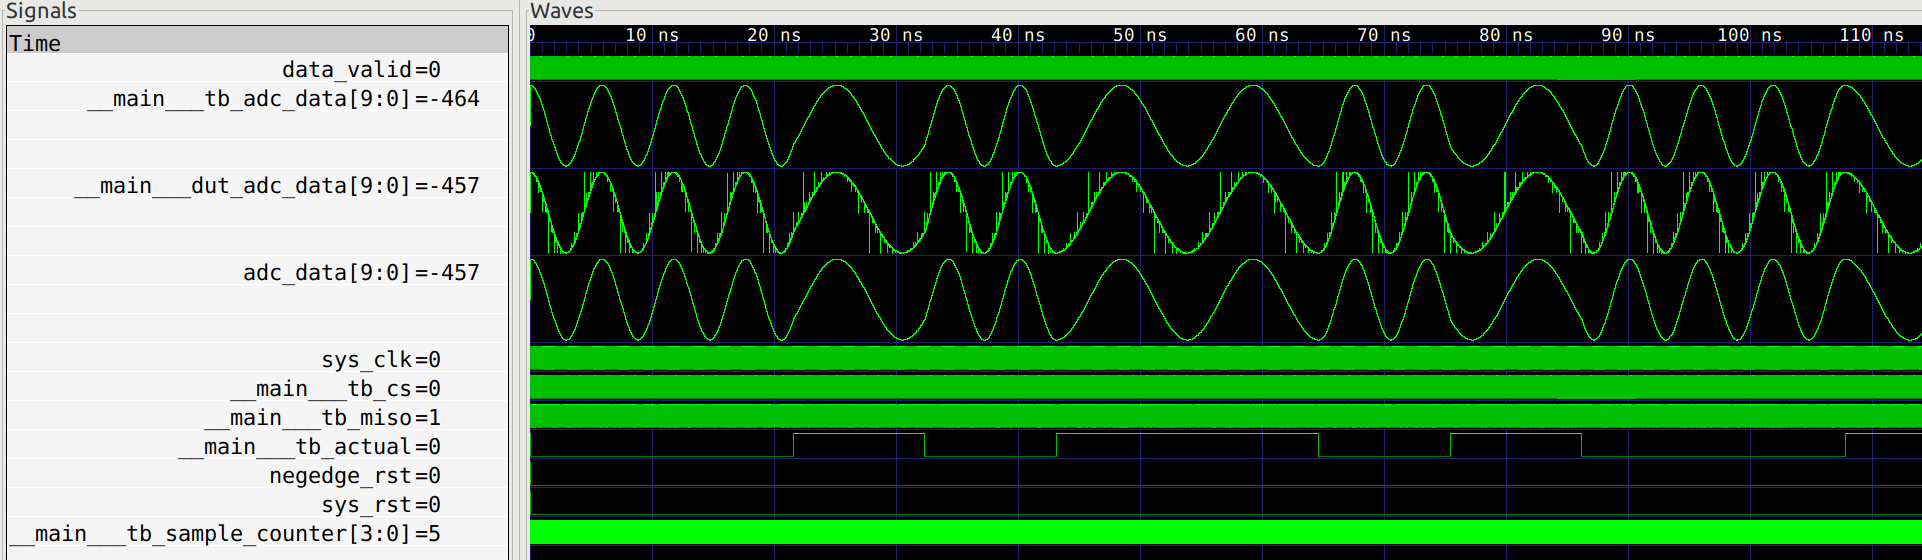
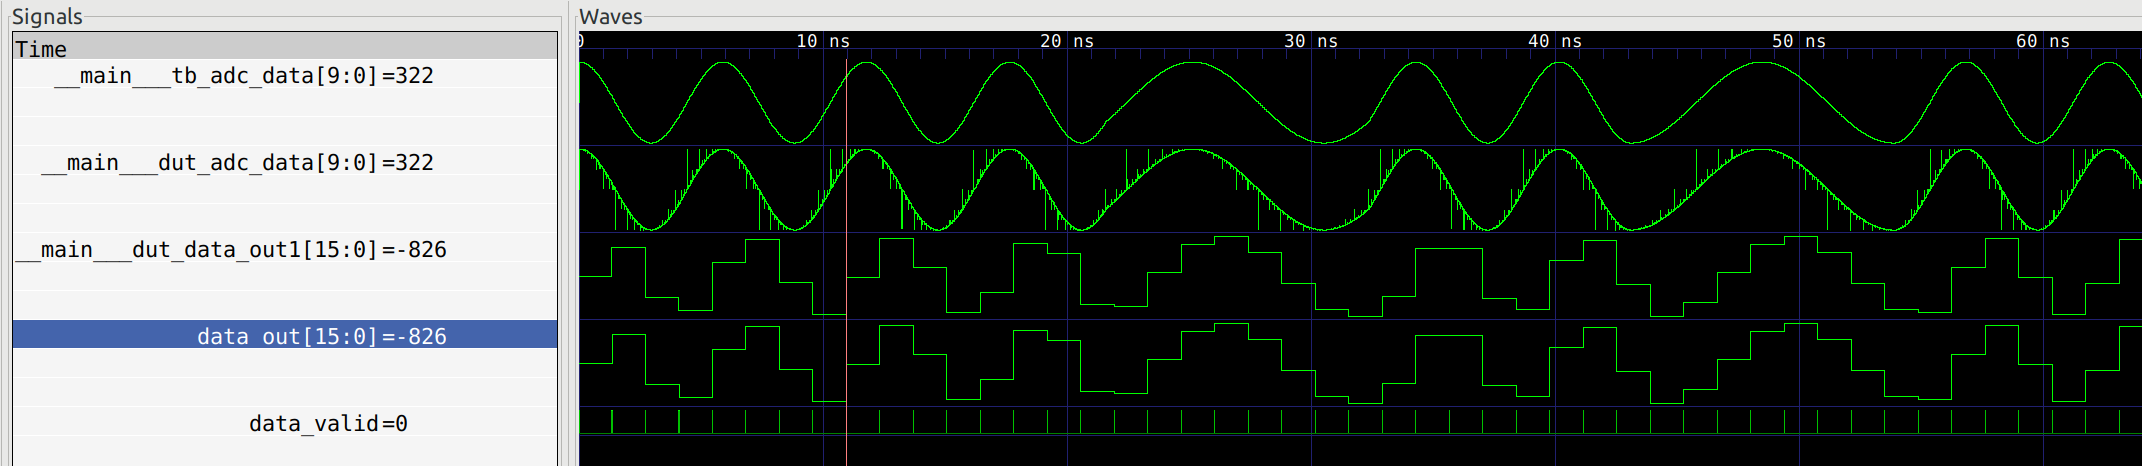
implemented downsampling, cleaned up hierarchy

diff --git a/litax25.py b/litax25.py
@@ -27,29 +27,23 @@ self.sync += If(foo, i.eq(j)).Else(i.eq(x))
 """
 
 class signal_gen():
-    def __init__(self, length, cycles_per_sample):
+    def __init__(self, length, params):
         self.bits = Array(Constant(random.randrange(2), (1, False)) for _ in range(length))
-        self.clk_freq = 6e6
-        self.sample_freq = self.clk_freq/cycles_per_sample
-        self.baud = 1200.
-        self.f1 = 1200.
-        self.f0 = 2200.
-        self.cycles_per_sample = cycles_per_sample
+        self.params = params
 
     def generator(self):
         phase = 0.
         curr_bit = self.bits[0].value
-        f = self.f1 if curr_bit == 1 else self.f0
+        f = self.params.f1 if curr_bit == 1 else self.params.f0
         j = 0
-        samples_per_baud = int(self.sample_freq/self.baud)
-        for i in range(samples_per_baud*len(self.bits)):
-            coeff = self.cycles_per_sample*i*2.*np.pi/self.clk_freq
-            if int(i * self.baud / self.sample_freq) > j:
-                j = int(i * self.baud / self.sample_freq)
-                bit_idx = int(i / samples_per_baud)
+        for i in range(self.params.presamples_per_symbol*len(self.bits)):
+            coeff = self.params.cycles_per_sample*i*2.*np.pi/self.params.clk_freq
+            if int(i * self.params.baud / self.params.sample_freq) > j:
+                j = int(i * self.params.baud / self.params.sample_freq)
+                bit_idx = int(i / self.params.presamples_per_symbol)
                 new_bit = self.bits[bit_idx].value
                 if new_bit != curr_bit: #determine new frequency and match the phase
-                    new_f = self.f1 if new_bit == 1 else self.f0
+                    new_f = self.params.f1 if new_bit == 1 else self.params.f0
                     phase = (coeff*(f - new_f)) + phase
                     curr_bit = new_bit
                     f = new_f
@@ -61,23 +55,21 @@ class signal_gen():
         return self.clk_freq/self.baud
 
 class spi_tb(Module):
-    def __init__(self, num_bits):
-        cycles_per_sample   = num_bits + 3
-        gen                 = signal_gen(20, cycles_per_sample)
-        cycles_per_baud     = gen.get_cycles_per_baud()
+    def __init__(self, params):
+        gen                 = signal_gen(20, params)
         self.miso           = Signal()
         self.cs             = Signal()
-        self.adc_data       = Signal(num_bits)
-        samples             = [(b, Constant(int((2**(num_bits - 1))*x)-1, (num_bits,True))) for b,x in gen.generator()]
+        self.adc_data       = Signal(params.adc_bit_width)
+        samples             = [(b, Constant(int((2**(params.adc_bit_width - 1))*x)-1, (params.adc_bit_width,True))) for b,x in gen.generator()]
         self.adc_array      = Array(x[1] for x in samples)
         self.actual_arr     = Array(x[0] for x in samples)
         self.sample_idx     = Signal(int(np.ceil(np.log2(len(self.adc_array)))))
-        self.sample_counter = Signal(int(np.ceil(np.log2(cycles_per_sample))))
+        self.sample_counter = Signal(int(np.ceil(np.log2(params.cycles_per_sample))))
         self.actual         = Signal()
 
         self.ios = {self.miso, self.cs}
         self.sync += \
-            If(self.sample_counter >= cycles_per_sample,
+            If(self.sample_counter >= params.cycles_per_sample,
                 self.sample_counter.eq(0),
                 self.sample_idx.eq(self.sample_idx + 1)
             ).Else(
@@ -90,9 +82,9 @@ class spi_tb(Module):
         fsm.act("B-1"  , self.miso.eq(1), If(~self.cs, NextState("WAIT0")))
         fsm.act("WAIT0", self.miso.eq(1), NextState("WAIT1")) #first cycle with CS low, Dout HI-Z (with pullup)
         fsm.act("WAIT1", self.miso.eq(1), NextState("WAIT2")) #Dout still HI-Z
-        fsm.act("WAIT2", self.miso.eq(0), NextState("B" + str(num_bits - 1)))    #Dout gives "Null BIT" (low) first
+        fsm.act("WAIT2", self.miso.eq(0), NextState("B" + str(params.adc_bit_width - 1)))    #Dout gives "Null BIT" (low) first
 
-        for i in range(num_bits - 1, -1, -1):
+        for i in range(params.adc_bit_width - 1, -1, -1):
             fsm.act("B" + str(i),
                 NextState("B" + str(i-1)),
                 self.miso.eq(self.adc_data[i]))
@@ -102,12 +94,12 @@ class spi_tb(Module):
                 self.actual.eq(self.actual_arr[self.sample_idx]))
 
 class adc_spi(Module):
-    def __init__(self, num_bits):
+    def __init__(self, params):
         self.miso       = Signal()
         self.cs         = Signal()
         self.sck        = Signal()
         self.data_valid = Signal()
-        self.adc_data   = Signal(num_bits)
+        self.adc_data   = Signal(params.adc_bit_width)
 
         self.ios = {self.miso, self.cs, self.data_valid, self.adc_data, self.sck}
 
@@ -121,37 +113,137 @@ class adc_spi(Module):
         fsm.act("B-1"  , NextState("WAIT0"))
         fsm.act("WAIT0", NextState("WAIT1")) #first cycle with CS low, Dout HI-Z
         fsm.act("WAIT1", NextState("WAIT2")) #Dout still HI-Z
-        fsm.act("WAIT2", NextState("B" + str(num_bits - 1)))    #Dout gives "Null BIT" (low) first
+        fsm.act("WAIT2", NextState("B" + str(params.adc_bit_width - 1)))    #Dout gives "Null BIT" (low) first
 
-        for i in range(num_bits - 1, -1, -1):
+        for i in range(params.adc_bit_width - 1, -1, -1):
             fsm.act("B" + str(i),
                 NextState("B" + str(i-1)),
                 NextValue(self.adc_data[i], self.miso))
 
+class downsample(Module):
+    def __init__(self, params):
+        self.data_in    = Signal((params.adc_bit_width, True))
+        self.valid_in   = Signal()
+        self.data_out   = Signal((params.downsampled_width, True))
+        self.valid_out  = Signal()
+        self.counter    = Signal(int(np.ceil(np.log2(params.downsample_count))))
+        self.acc        = Signal((params.downsampled_width, True))
+
+        self.ios = {self.data_in, self.valid_in, self.data_out, self.valid_out}
+
+        self.sync += If(self.valid_in,
+            If(self.counter >= params.downsample_count,
+                self.counter.eq(0),
+                self.valid_out.eq(1),
+                self.data_out.eq(self.acc + self.data_in),
+                self.acc.eq(0)
+            ).Else(
+                self.counter.eq(self.counter + 1),
+                self.valid_out.eq(0),
+                self.acc.eq(self.acc + self.data_in)
+            )
+        ).Else(
+            self.valid_out.eq(0)
+        )
+
+class demodulator(Module):
+    def __init__(self, params):
+        self.miso       = Signal()
+        self.cs         = Signal()
+        self.sck        = Signal()
+        self.valid_out  = Signal()
+        self.data_out   = Signal(params.downsampled_width)
+
+        self.ios = {self.miso, self.cs, self.data_out, self.valid_out, self.sck}
+
+        #ADC/SPI controller
+        adc_spi_interface = adc_spi(params)
+        self.submodules += adc_spi_interface
+
+        #connect ADC/SPI controller to our SPI signals
+        self.comb += adc_spi_interface.miso.eq(self.miso)
+        self.comb += self.cs.eq(adc_spi_interface.cs)
+        self.comb += self.sck.eq(adc_spi_interface.sck)
+
+        #the ADC gives us samples too fast - don't want to instantiate multipliers to process all of them
+        downsampler = downsample(params)
+        self.submodules += downsampler
+
+        #connect downsampler to ADC/SPI controller
+        #TODO there should be a CDC here - everything from downsampler on should be running on sys clock not ADC clock
+        self.comb += downsampler.valid_in.eq(adc_spi_interface.data_valid)
+        self.comb += downsampler.data_in.eq(adc_spi_interface.adc_data)
+
+        self.comb += self.valid_out.eq(downsampler.valid_out)
+        self.comb += self.data_out.eq(downsampler.data_out)
+
 class adc_tb_top(Module):
-    def __init__(self, num_bits):
+    def __init__(self, params):
         self.data_valid = Signal()
-        self.adc_data = Signal(num_bits)
+        self.data_out   = Signal(params.downsampled_width)
+        
+        self.ios = {self.data_valid, self.data_out}
 
-        self.ios = {self.data_valid, self.adc_data}
+        #Design Under Test - talk to TB ADC model and demodulate the signal
+        dut = demodulator(params)
+        self.submodules += dut
 
-        tb = spi_tb(num_bits)
-        dut = adc_spi(num_bits)
+        #create a negedge clock domain for the TB because the real MCP3001 responds on the negative edge
         negedge = ClockDomain()
         self.clock_domains.cd_negedge = negedge
+        self.comb += negedge.clk.eq(~dut.sck)
+        self.comb += negedge.rst.eq(ResetSignal("sys"))
+
+        #TB model of the ADC with SPI interface
+        tb = spi_tb(params)
         self.submodules += tb
-        self.submodules += dut
         tb = ClockDomainsRenamer("negedge")(tb)
 
-        self.comb += dut.miso.eq(tb.miso)
-        self.comb += tb.cs.eq(dut.cs)
+        #DUT/TB connections
+        self.comb += dut.miso.eq(tb.miso) #data from ADC TB model to the DSP pipeline
+        self.comb += tb.cs.eq(dut.cs) #chip select for the ADC TB model
 
-        self.comb += negedge.rst.eq(ResetSignal("sys"))
-        self.comb += negedge.clk.eq(~dut.sck)
+        #DUT/top level connections - just for test
+        self.comb += self.data_valid.eq(dut.valid_out)
+        self.sync += If(dut.valid_out, self.data_out.eq(dut.data_out))
 
-        self.comb += self.data_valid.eq(dut.data_valid)
-        self.sync += If(self.data_valid, self.adc_data.eq(dut.adc_data))
+class dsp_params:
+    def __init__(self):
+        #bit width of the ADC
+        self.adc_bit_width = 10
 
-tb_top = adc_tb_top(10)
+        #function of the ADC SPI interface - how many cycles does it take to read each sample
+        self.cycles_per_sample = self.adc_bit_width + 3 
+
+        #orange crab/litex/ECP5 system clock is set to 48MHz, the SPI signals looked a little
+        #stressed on the oscilloscope at 12MHz but clean at 6MHz so lets divide by 8
+        self.clk_freq = 6e6
+
+        #how often are we getting a sample in?
+        self.sample_freq = self.clk_freq/self.cycles_per_sample
+
+        #AX.25 baud rate, Hz
+        self.baud = 1200.
+
+        #how many samples (pre-downsampling) are we going to collect for each sample
+        self.presamples_per_symbol = int(self.sample_freq/self.baud)
+
+        #after downsampling, how many samples do we want to have for each bit symbol?
+        self.samples_per_symbol = 8
+
+        #how many samples are we going to average together when we downsample?
+        self.downsample_count = int(self.sample_freq/(self.samples_per_symbol*self.baud))
+
+        #how many bits do we need to represent the downsampled signal - we don't actually need to
+        #calculate the quotient to get the average of the last N samples because the amplitude is
+        #arbitrary - but we do need enough bits to represent the sum of the last N samples
+        self.downsampled_width = int(np.ceil(np.log2(self.downsample_count))) + self.adc_bit_width
+
+        #AX.25 frequencies for bit 1/bit 0 symbols, Hz
+        self.f1 = 1200.
+        self.f0 = 2200.
+
+params = dsp_params()
+tb_top = adc_tb_top(params)
 print(verilog.convert(tb_top, tb_top.ios, "adc_tb_top"))
 
